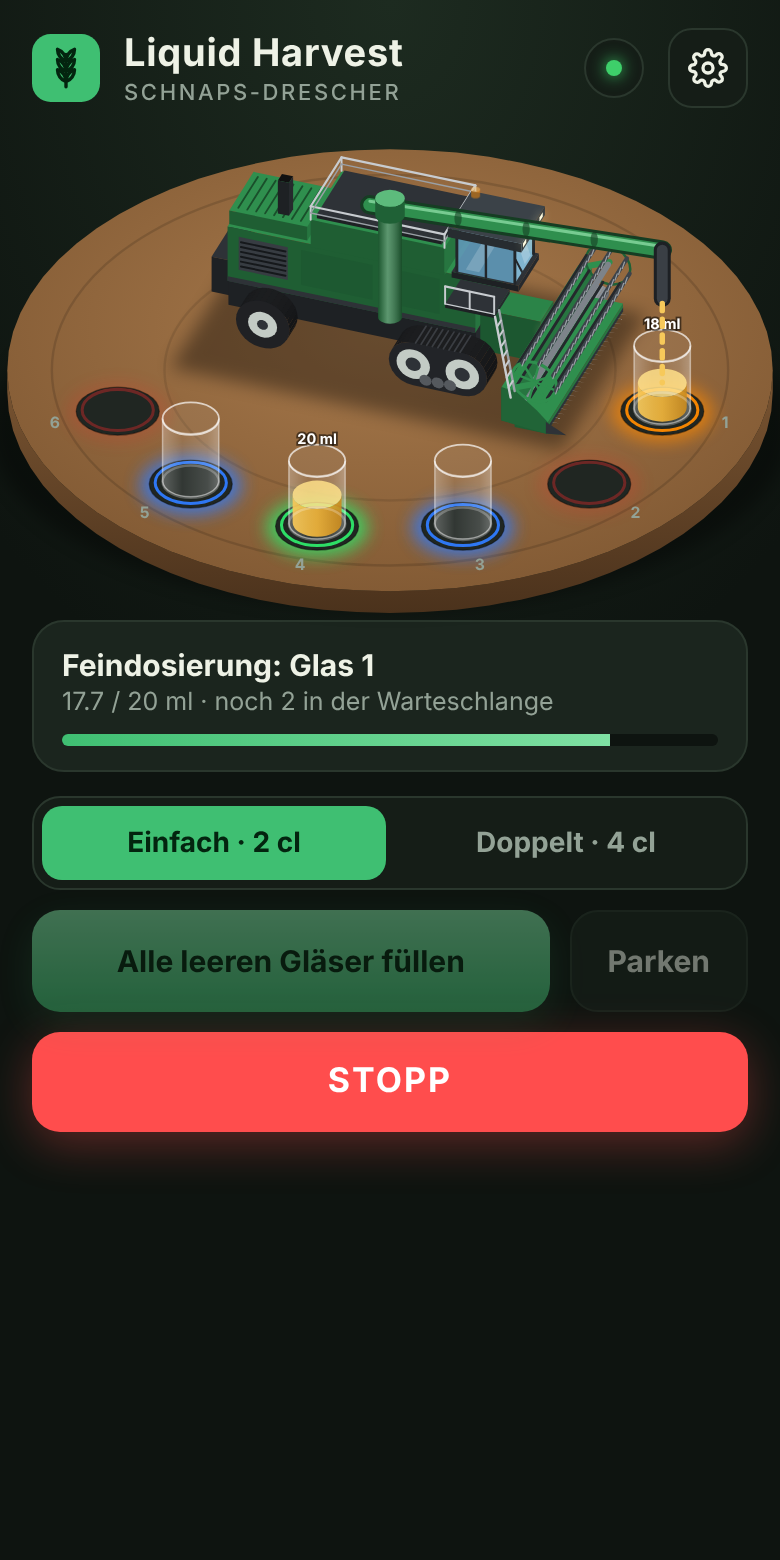
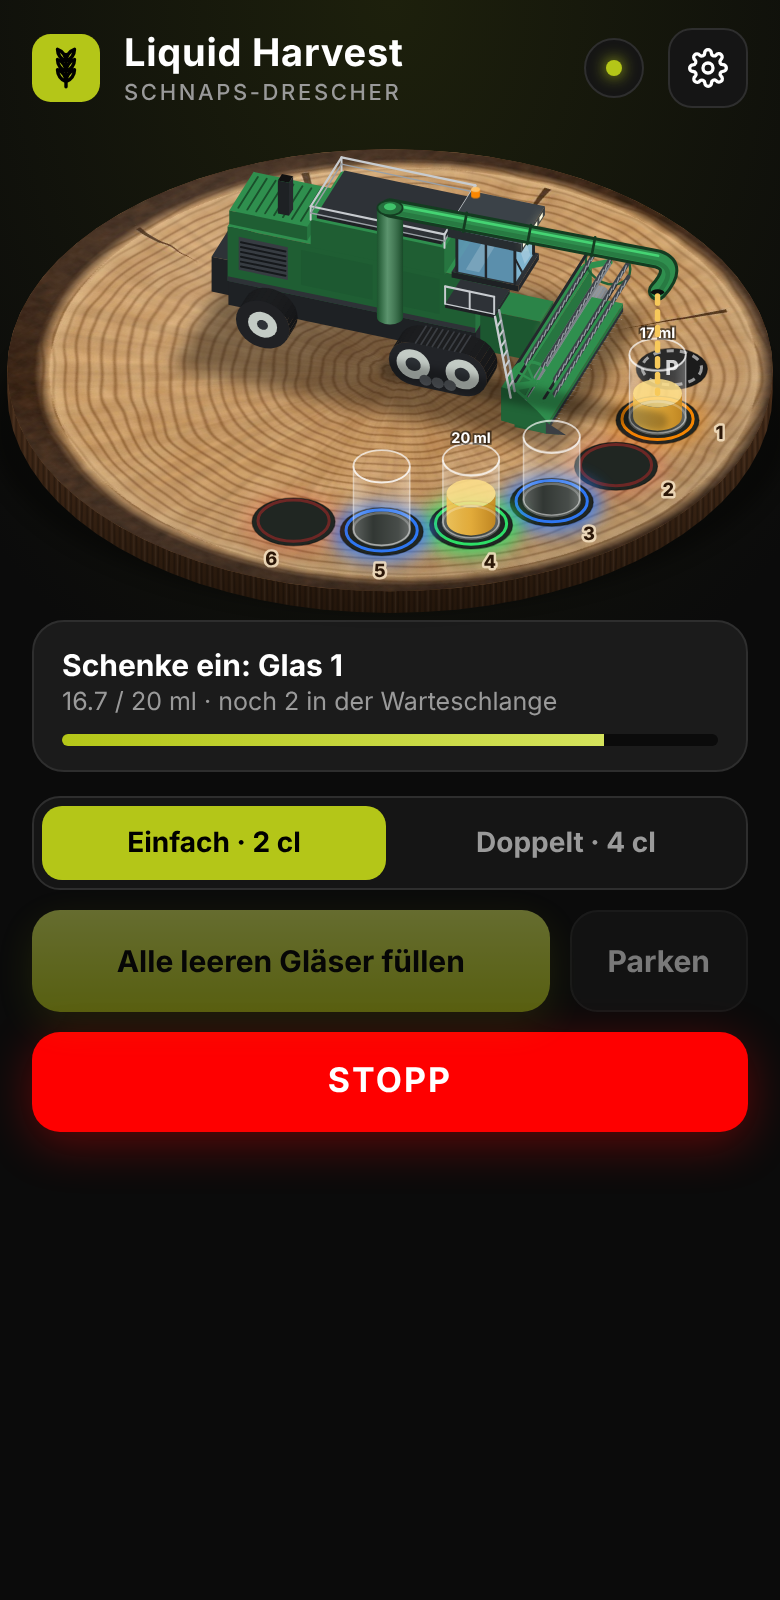
README: neue Bilder (Live-Ansicht, Untergründe, Darstellung, Installer) und aktuelle Funktionen
Claude-Session: https://claude.ai/code/session_01NBYnuXhPj8sirCiajUX7Up

diff --git a/README.md b/README.md
@@ -17,6 +17,13 @@ Ein Spielzeug-Mähdrescher, der mit seinem Abtankrohr bis zu **6 Gläser** anfä
 | <img src="docs/images/app-start.png" width="200"> | <img src="docs/images/app-pour.png" width="200"> | <img src="docs/images/app-glass.png" width="200"> | <img src="docs/images/app-scales.png" width="200"> |
 | Gläser poppen auf, sobald sie auf der Waage stehen | Fortschritt, Warteschlange, Notstopp | Menge wählen und starten | Tara + Kalibrierung pro Platz |
 
+### Untergründe & Darstellung
+
+<p align="center"><img src="docs/images/untergruende.png" alt="Untergründe: Holzscheibe, Holzplatte, Stoppelfeld, Wiese, Acker, Schiefer, Beton, ohne" width="900"></p>
+<p align="center"><sub>Holzscheibe · Holzplatte · Stoppelfeld · Wiese · Acker · Schiefer · Beton · ohne – Glasnummern passen ihre Farbe automatisch an</sub></p>
+
+<p align="center"><img src="docs/images/app-darstellung.png" alt="Einstellungen: Darstellung mit Klapp-Reitern" width="220"></p>
+
 **Online-Vorschau:** [mariofritzer.github.io/Liquid-Harvest/app/](https://mariofritzer.github.io/Liquid-Harvest/app/) – die komplette App als Simulation, ohne Hardware. Dort kannst du Bild, STL-Modell, Rohr-Video, Ausrichtung und Farben vorab einrichten, unter ⚙ → Darstellung **exportieren** und nach dem Flashen am Drescher **importieren**.
 
 ## Funktionen
@@ -30,7 +37,9 @@ Ein Spielzeug-Mähdrescher, der mit seinem Abtankrohr bis zu **6 Gläser** anfä
 | **Online** | isometrische 3D-Ansicht am Handy, Gläser poppen live auf, Klick → Menge wählen → einschenken |
 | **WLAN** | Heimnetz mit `http://liquidharvest.local`, Hotspot als Rückfall bzw. Party-Modus, Captive Portal |
 | **Eigenes Drescher-Bild** | eigenes Foto oder **STL-3D-Modell** hochladen (wird im Browser isometrisch gerendert), Hintergrund automatisch freistellen, Position einstellen – das Abtankrohr schwenkt live darüber |
-| **Rohr-Video** | eigenes Video (Rohr schwenkt aus) hochladen – die App zeigt immer das Einzelbild, das zum echten Servo-Winkel passt |
+| **Rohr-Video** | eigenes Video (Rohr fährt Park → Glas 1 … 6) hochladen – Haltepunkte, Rohrspitzen und Parkposition werden erkannt, Hintergrund freigestellt, Gläser automatisch unter den Auslauf gesetzt; die App zeigt immer das Bild zum echten Servo-Winkel |
+| **Untergrund** | Holzscheibe, Holzplatte, Stoppelfeld, Wiese, Acker, Schiefer, Beton oder ohne – realistische Texturen, im Browser erzeugt |
+| **Standard-Einrichtung** | Export aus der App als `setup/default-setup.json` ins Repo → wird beim Flashen mitinstalliert; jeder Build prüft das Image und startet es testweise im ESP32-Emulator |
 | **Updates** | Web-Installer per USB oder OTA über die Weboberfläche |
 | **API** | REST für Home Assistant & Co. |
 
